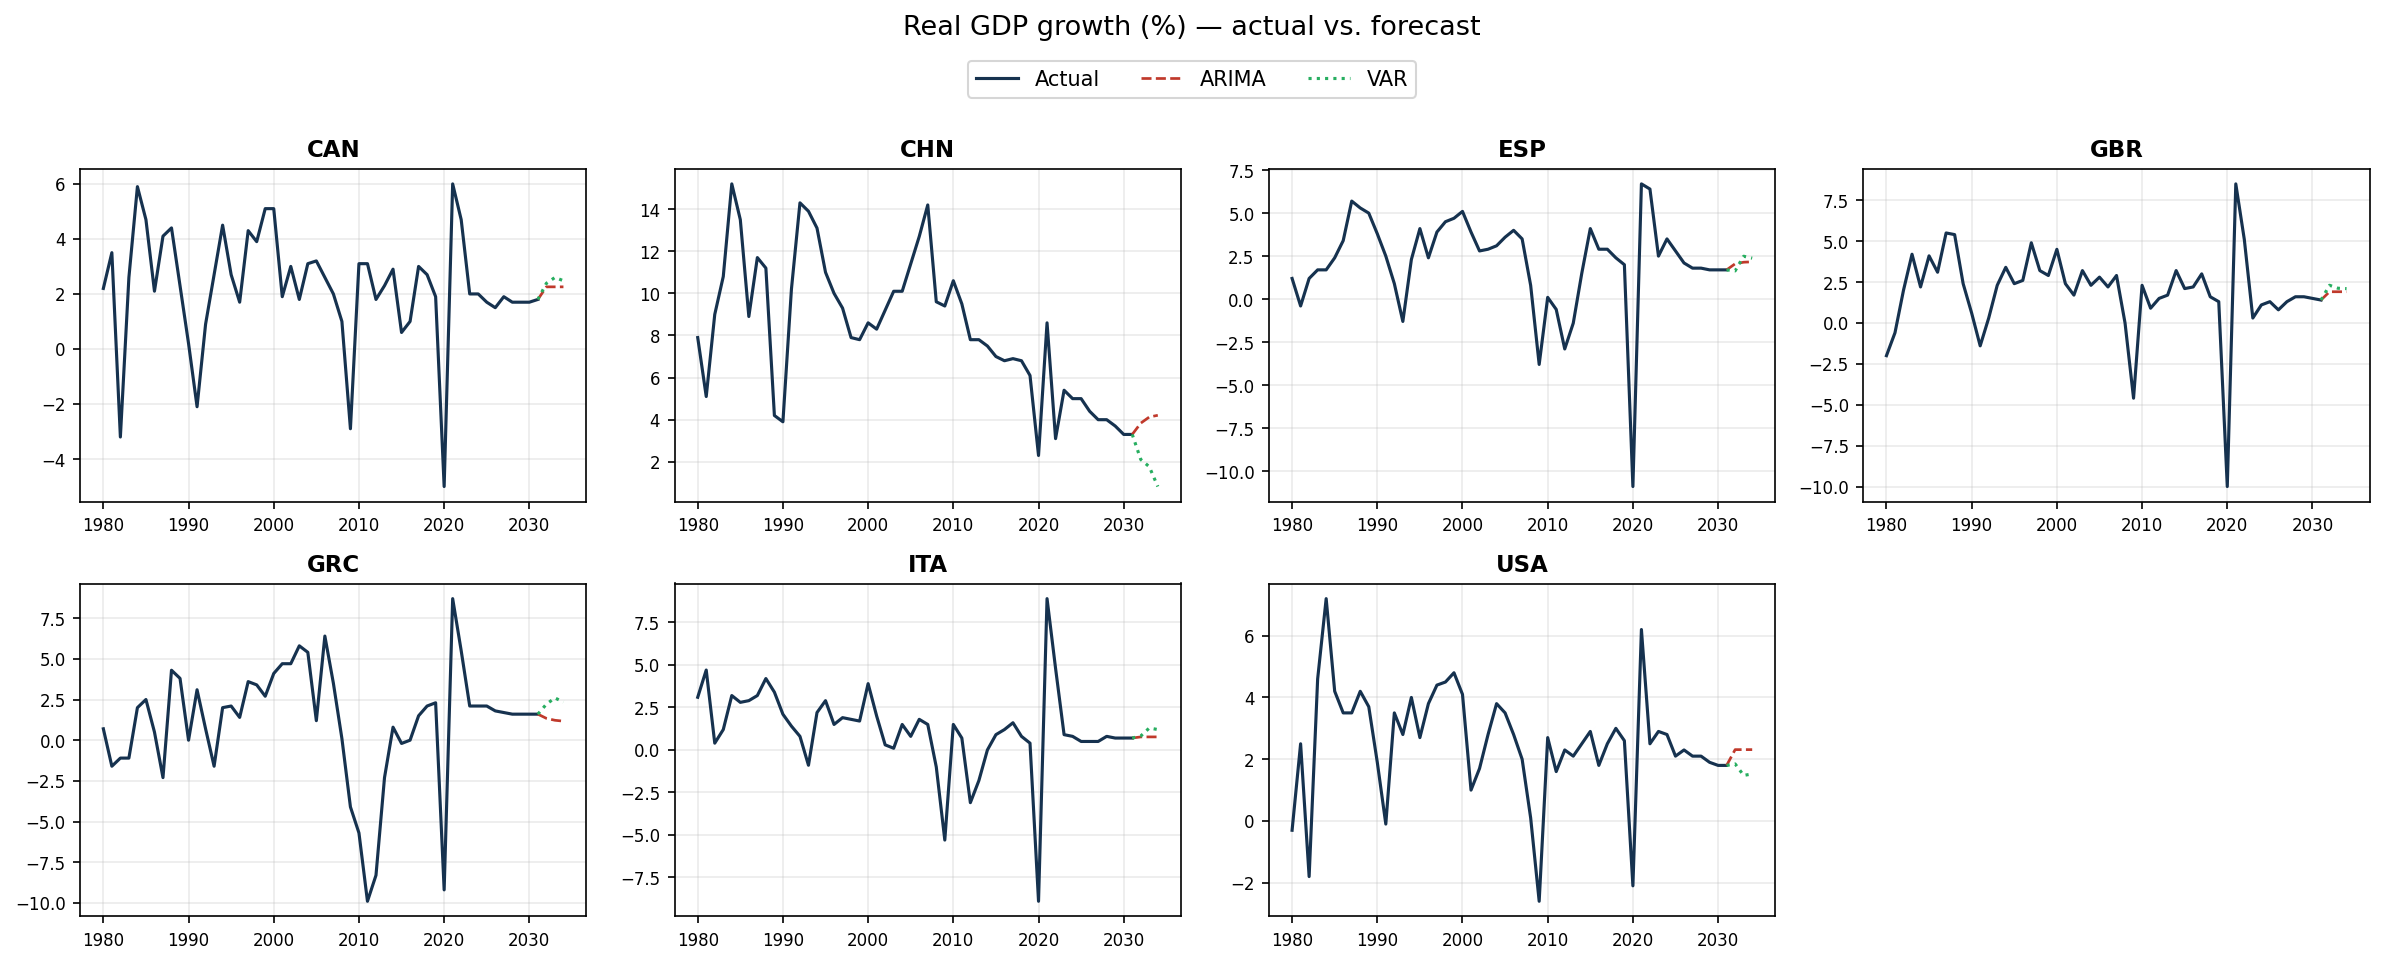
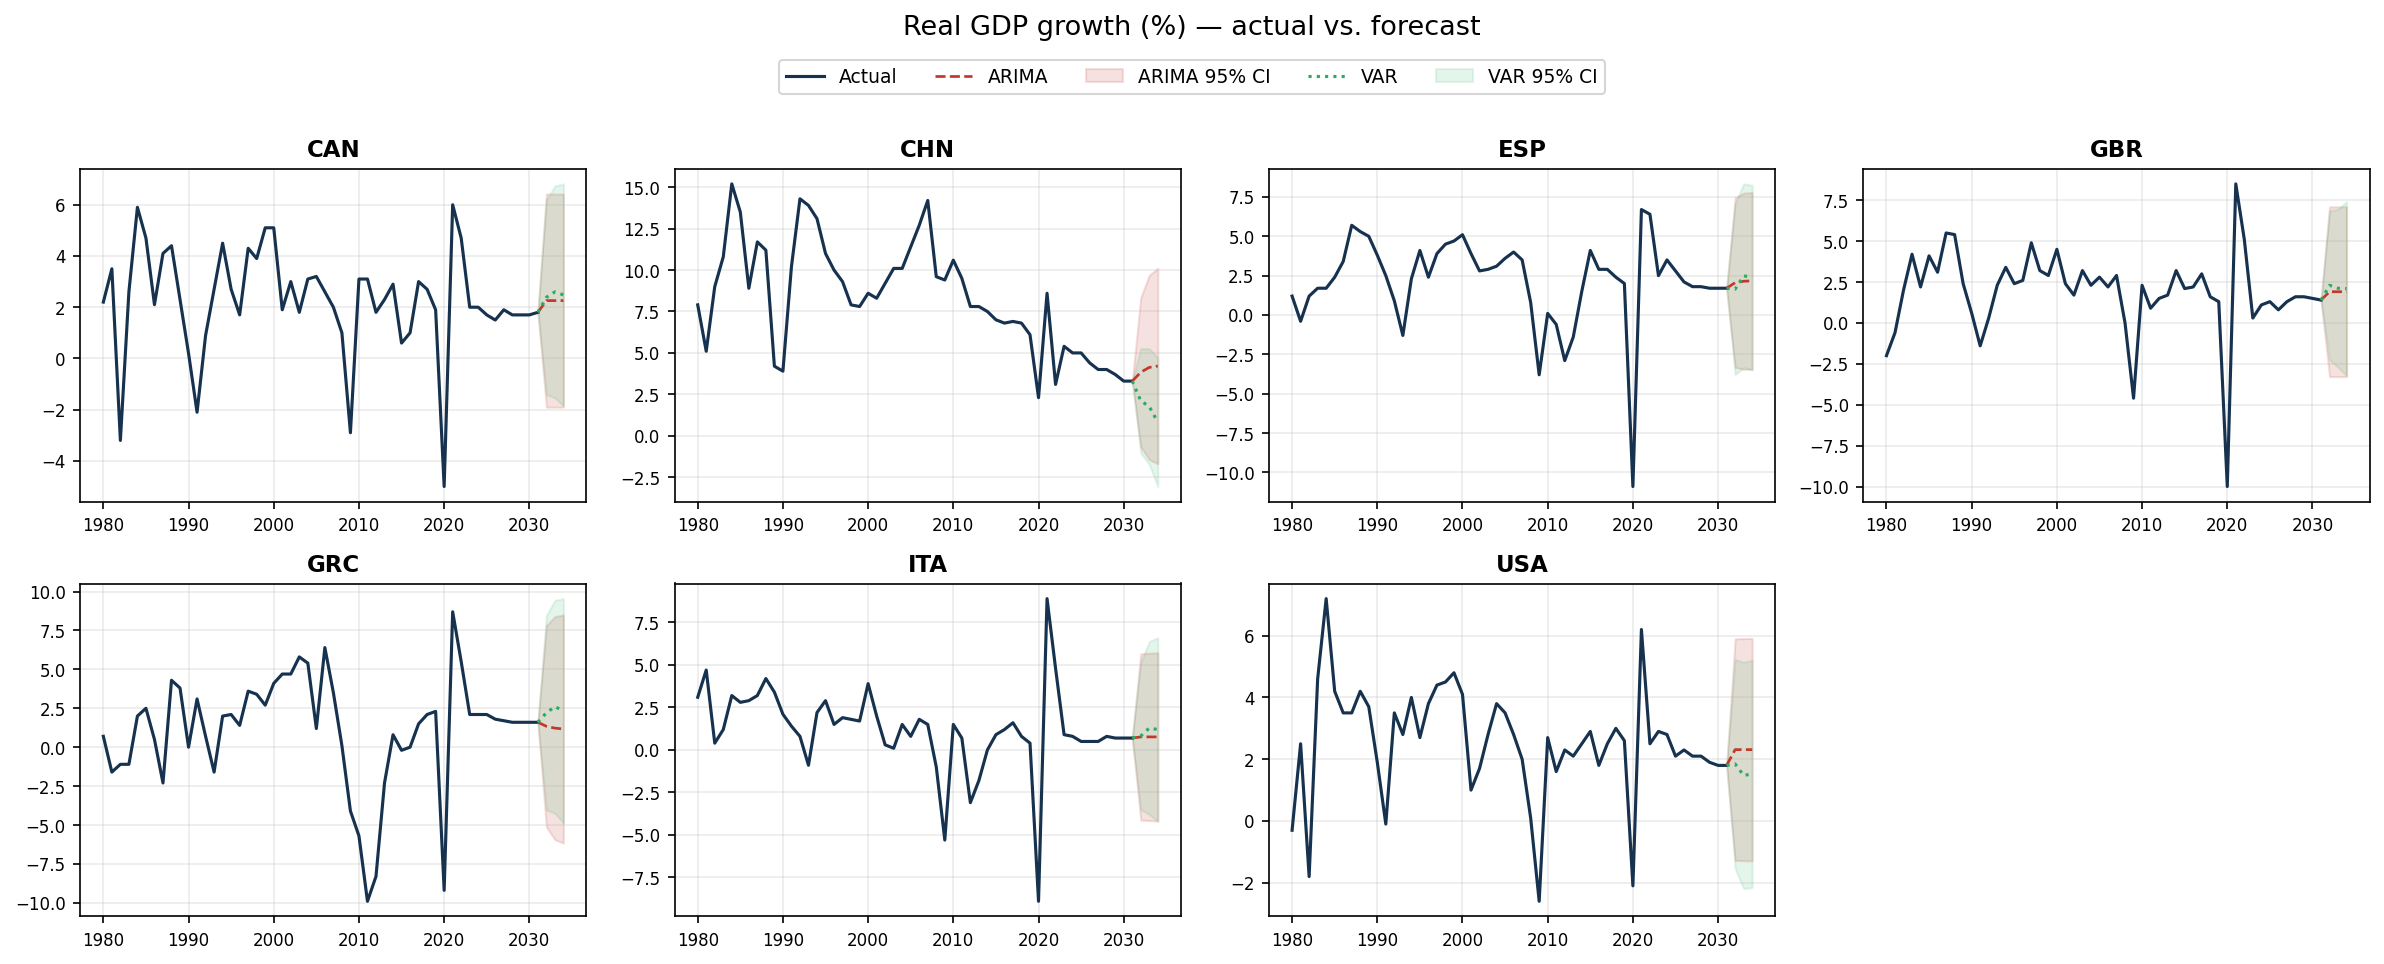
Add 95 percent confidence intervals to forecasts and charts

diff --git a/src/forecast.py b/src/forecast.py
@@ -8,7 +8,11 @@ Forecasts IMF WEO macro indicators using two approaches:
 
 Input:  data/weo_macro_indicators.csv (wide format, produced by fetch_weo_data.py)
 Output: data/forecasts.csv (long format: country, indicator, year, value,
-        value_type ["actual"|"arima_forecast"|"var_forecast"])
+        value_type ["actual"|"arima_forecast"|"var_forecast"], lower_95, upper_95)
+
+Both ARIMA and VAR forecasts include 95% confidence intervals - a range
+("likely between X and Y"), not just a single point number. Actual rows have
+no interval (there's nothing uncertain about confirmed history).
 """
 
 import warnings
@@ -31,22 +35,28 @@ INDICATOR_COLS = [
 ]
 
 
-def forecast_arima(series: pd.Series, steps: int) -> list[float]:
+def forecast_arima(series: pd.Series, steps: int) -> pd.DataFrame:
     """Pick the best-fitting ARIMA order for this series (by AIC), fit it,
-    and forecast ahead."""
+    and forecast ahead with a 95% confidence interval."""
     order = select_arima_order(series.values)
     fitted = ARIMA(series.values, order=order).fit()
-    return list(fitted.forecast(steps=steps))
+    forecast_result = fitted.get_forecast(steps=steps)
+    summary = forecast_result.summary_frame(alpha=0.05)  # 95% CI
+    return summary[["mean", "mean_ci_lower", "mean_ci_upper"]]
 
 
-def forecast_var(country_df: pd.DataFrame, steps: int) -> pd.DataFrame:
-    """Fit a VAR model jointly on all indicators for one country and forecast ahead."""
+def forecast_var(country_df: pd.DataFrame, steps: int):
+    """Fit a VAR model jointly on all indicators for one country and forecast
+    ahead, with a 95% confidence interval for each indicator."""
     values = country_df[INDICATOR_COLS].dropna()
     lag_order = 1 if len(values) < 15 else 2  # keep lag order sane for short series
     model = VAR(values.values)
     fitted = model.fit(lag_order)
-    forecast = fitted.forecast(values.values[-lag_order:], steps=steps)
-    return pd.DataFrame(forecast, columns=INDICATOR_COLS)
+    point, lower, upper = fitted.forecast_interval(values.values[-lag_order:],
+                                                    steps=steps, alpha=0.05)
+    return (pd.DataFrame(point, columns=INDICATOR_COLS),
+            pd.DataFrame(lower, columns=INDICATOR_COLS),
+            pd.DataFrame(upper, columns=INDICATOR_COLS))
 
 
 def run(input_path: str = INPUT_PATH, output_path: str = OUTPUT_PATH) -> pd.DataFrame:
@@ -58,36 +68,42 @@ def run(input_path: str = INPUT_PATH, output_path: str = OUTPUT_PATH) -> pd.Data
         last_year = int(cdf["year"].max())
         future_years = list(range(last_year + 1, last_year + 1 + FORECAST_YEARS))
 
-        # Record actuals
+        # Record actuals - no interval, since there's nothing uncertain about
+        # confirmed history
         for _, row in cdf.iterrows():
             for ind in INDICATOR_COLS:
                 if pd.notna(row[ind]):
                     all_rows.append({"country": country, "indicator": ind,
                                      "year": int(row["year"]), "value": row[ind],
-                                     "value_type": "actual"})
+                                     "value_type": "actual",
+                                     "lower_95": None, "upper_95": None})
 
-        # ARIMA — per indicator
+        # ARIMA — per indicator, with confidence interval
         for ind in INDICATOR_COLS:
             series = cdf[ind].dropna()
             if len(series) < 8:
                 continue  # not enough history for a stable fit
             try:
                 preds = forecast_arima(series, FORECAST_YEARS)
-                for yr, val in zip(future_years, preds):
+                for yr, row in zip(future_years, preds.itertuples()):
                     all_rows.append({"country": country, "indicator": ind, "year": yr,
-                                     "value": val, "value_type": "arima_forecast"})
+                                     "value": row.mean, "value_type": "arima_forecast",
+                                     "lower_95": row.mean_ci_lower,
+                                     "upper_95": row.mean_ci_upper})
             except Exception as e:
                 print(f"  ARIMA skipped for {country}/{ind}: {e}")
 
-        # VAR — jointly across indicators
+        # VAR — jointly across indicators, with confidence interval
         if cdf[INDICATOR_COLS].dropna().shape[0] >= 8:
             try:
-                var_preds = forecast_var(cdf, FORECAST_YEARS)
+                point, lower, upper = forecast_var(cdf, FORECAST_YEARS)
                 for i, yr in enumerate(future_years):
                     for ind in INDICATOR_COLS:
                         all_rows.append({"country": country, "indicator": ind, "year": yr,
-                                         "value": var_preds.iloc[i][ind],
-                                         "value_type": "var_forecast"})
+                                         "value": point.iloc[i][ind],
+                                         "value_type": "var_forecast",
+                                         "lower_95": lower.iloc[i][ind],
+                                         "upper_95": upper.iloc[i][ind]})
             except Exception as e:
                 print(f"  VAR skipped for {country}: {e}")
 

diff --git a/src/visualize.py b/src/visualize.py
@@ -1,7 +1,8 @@
 """
 visualize.py
 Generates three charts from the project's existing outputs:
-  1. Forecast fan     - actual history + ARIMA/VAR forecast, one panel per country
+  1. Forecast fan     - actual history + ARIMA/VAR forecast with 95% CI bands,
+                         one panel per country
   2. IMF comparison   - heatmap of where our model agrees/disagrees with IMF's
                          current outlook, country x indicator
   3. Top anomalies    - the largest flagged deviations from anomaly_detection.py
@@ -31,7 +32,8 @@ INDICATOR_LABELS = {
 
 
 def plot_forecast_fan(indicator: str = "real_gdp_growth_pct"):
-    """Small-multiples chart: actual history + ARIMA/VAR forecast, per country."""
+    """Small-multiples chart: actual history + ARIMA/VAR forecast with 95% CI
+    bands, per country."""
     df = pd.read_csv(FORECASTS_PATH)
     df = df[df["indicator"] == indicator]
     countries = sorted(df["country"].unique())
@@ -54,10 +56,22 @@ def plot_forecast_fan(indicator: str = "real_gdp_growth_pct"):
             bridge_y = list(actual["value"].tail(1)) + list(arima["value"])
             bridge_x = list(actual["year"].tail(1)) + list(arima["year"])
             ax.plot(bridge_x, bridge_y, color="#C0392B", linestyle="--", linewidth=1.3, label="ARIMA")
+            if "lower_95" in arima.columns and arima["lower_95"].notna().any():
+                band_x = list(actual["year"].tail(1)) + list(arima["year"])
+                band_lo = list(actual["value"].tail(1)) + list(arima["lower_95"])
+                band_hi = list(actual["value"].tail(1)) + list(arima["upper_95"])
+                ax.fill_between(band_x, band_lo, band_hi, color="#C0392B", alpha=0.15,
+                                label="ARIMA 95% CI")
         if not var.empty:
             bridge_y = list(actual["value"].tail(1)) + list(var["value"])
             bridge_x = list(actual["year"].tail(1)) + list(var["year"])
             ax.plot(bridge_x, bridge_y, color="#27AE60", linestyle=":", linewidth=1.5, label="VAR")
+            if "lower_95" in var.columns and var["lower_95"].notna().any():
+                band_x = list(actual["year"].tail(1)) + list(var["year"])
+                band_lo = list(actual["value"].tail(1)) + list(var["lower_95"])
+                band_hi = list(actual["value"].tail(1)) + list(var["upper_95"])
+                ax.fill_between(band_x, band_lo, band_hi, color="#27AE60", alpha=0.12,
+                                label="VAR 95% CI")
 
         ax.set_title(country, fontsize=11, fontweight="bold")
         ax.tick_params(labelsize=8)
@@ -67,7 +81,7 @@ def plot_forecast_fan(indicator: str = "real_gdp_growth_pct"):
         axes[j].axis("off")
 
     handles, labels = axes[0].get_legend_handles_labels()
-    fig.legend(handles, labels, loc="upper center", ncol=3, bbox_to_anchor=(0.5, 1.02), fontsize=10)
+    fig.legend(handles, labels, loc="upper center", ncol=5, bbox_to_anchor=(0.5, 1.02), fontsize=9)
     fig.suptitle(f"{INDICATOR_LABELS.get(indicator, indicator)} — actual vs. forecast",
                 fontsize=13, y=1.06)
     fig.tight_layout()

diff --git a/README.md b/README.md
@@ -15,7 +15,9 @@ and reporting workflows.
 1. **Data** — pull WEO indicators (real GDP growth, inflation, fiscal balance,
    current account, government debt) via the public IMF DataMapper API, for
    Italy, Greece, Spain, Canada, UK, China, and the US.
-2. **Forecast** — fit ARIMA/VAR models per country and indicator.
+2. **Forecast** — fit ARIMA/VAR models per country and indicator, with ARIMA
+   order chosen per series by AIC rather than a fixed guess, and 95%
+   confidence intervals for every forecast rather than a bare point number.
 3. **Anomaly flagging** — flag cases where actuals deviate meaningfully from
    forecast/trend (historical backtest).
 4. **IMF comparison** — hold out recent years, forecast them independently,
@@ -25,13 +27,14 @@ and reporting workflows.
    a short, readable summary of what changed and why it matters.
 6. **Visualization** — chart the forecasts, IMF comparison, and flagged
    anomalies for quick visual review.
-7. **Accuracy metrics** — compute MAE/RMSE from both backtests, turning
-   "the model seems reasonable" into a measured claim.
+7. **Accuracy metrics** — compute MAE/RMSE from both backtests, and check ARIMA
+   against a naive baseline, turning "the model seems reasonable" into a
+   measured claim.
 
 ## Status
 
 - [x] Data pipeline — `src/fetch_weo_data.py`
-- [x] Forecasting module — `src/forecast.py` (ARIMA + VAR)
+- [x] Forecasting module — `src/forecast.py` (ARIMA + VAR, with 95% CIs)
 - [x] Anomaly detection — `src/anomaly_detection.py` (rolling-origin backtest)
 - [x] IMF comparison — `src/compare_to_imf.py` (near-term hold-out check)
 - [x] LLM briefing agent — `src/generate_briefing.py` (Claude API)
@@ -67,13 +70,25 @@ python src/model_accuracy.py     # computes MAE/RMSE -> data/accuracy_report.csv
 ```
 
 `forecast.py` fits two models per country:
-- **ARIMA(1,1,1)** — one model per indicator, univariate
+- **ARIMA** — one model per indicator, univariate, with the order (p,d,q)
+  chosen per series by AIC (see `arima_utils.py`) instead of a fixed guess
 - **VAR** — one model per country, jointly fitting all five indicators to
   capture cross-variable dynamics (e.g. how inflation and fiscal balance move
   together)
 
 Both forecast types are written to `data/forecasts.csv` alongside the actuals,
-tagged by `value_type`, so they can be compared directly.
+tagged by `value_type`, along with `lower_95`/`upper_95` columns giving a 95%
+confidence interval - "likely between X and Y," not just a single number.
+The forecast fan chart shades these as bands so the growing uncertainty
+further into the future is visible, not just implied.
+
+`arima_utils.py` is a shared helper: instead of guessing ARIMA(1,1,1) for
+every series, it tests a handful of candidate orders and picks whichever gets
+the lowest AIC (a standard statistic that rewards fit while penalizing
+needless complexity). Used by both `forecast.py` and `anomaly_detection.py`.
+In `anomaly_detection.py`, the order is selected once per series from only
+the initial training window - not the full series - so the choice can't
+"see" the years it's later tested against.
 
 `anomaly_detection.py` runs a rolling-origin backtest: at each year, it fits a
 model on everything before it, forecasts one step ahead, and flags years where
@@ -101,7 +116,9 @@ Squared Error) from both backtests: historical accuracy from
 current outlook from `compare_to_imf.py`'s 2024-2026 hold-out. This replaces
 "the model seems reasonable" with a specific, measured number - e.g. "our
 1-year-ahead GDP growth forecasts are off by an average of X percentage
-points historically."
+points historically." It also scores ARIMA against a naive baseline (predict
+"no change from last year") per indicator - the standard sanity check for
+whether the model is actually adding value over the simplest possible guess.
 
 ## Data source
 
